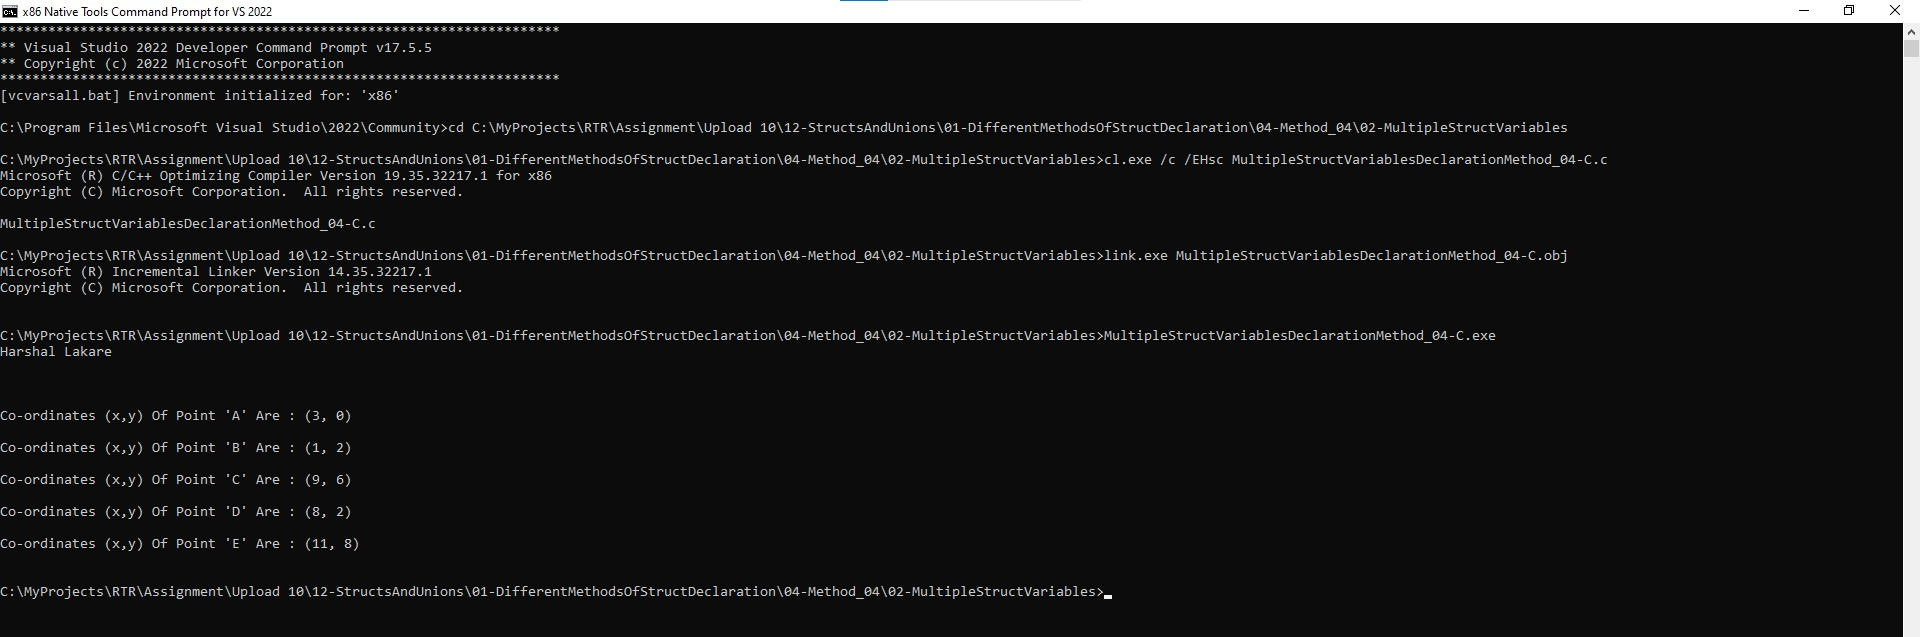
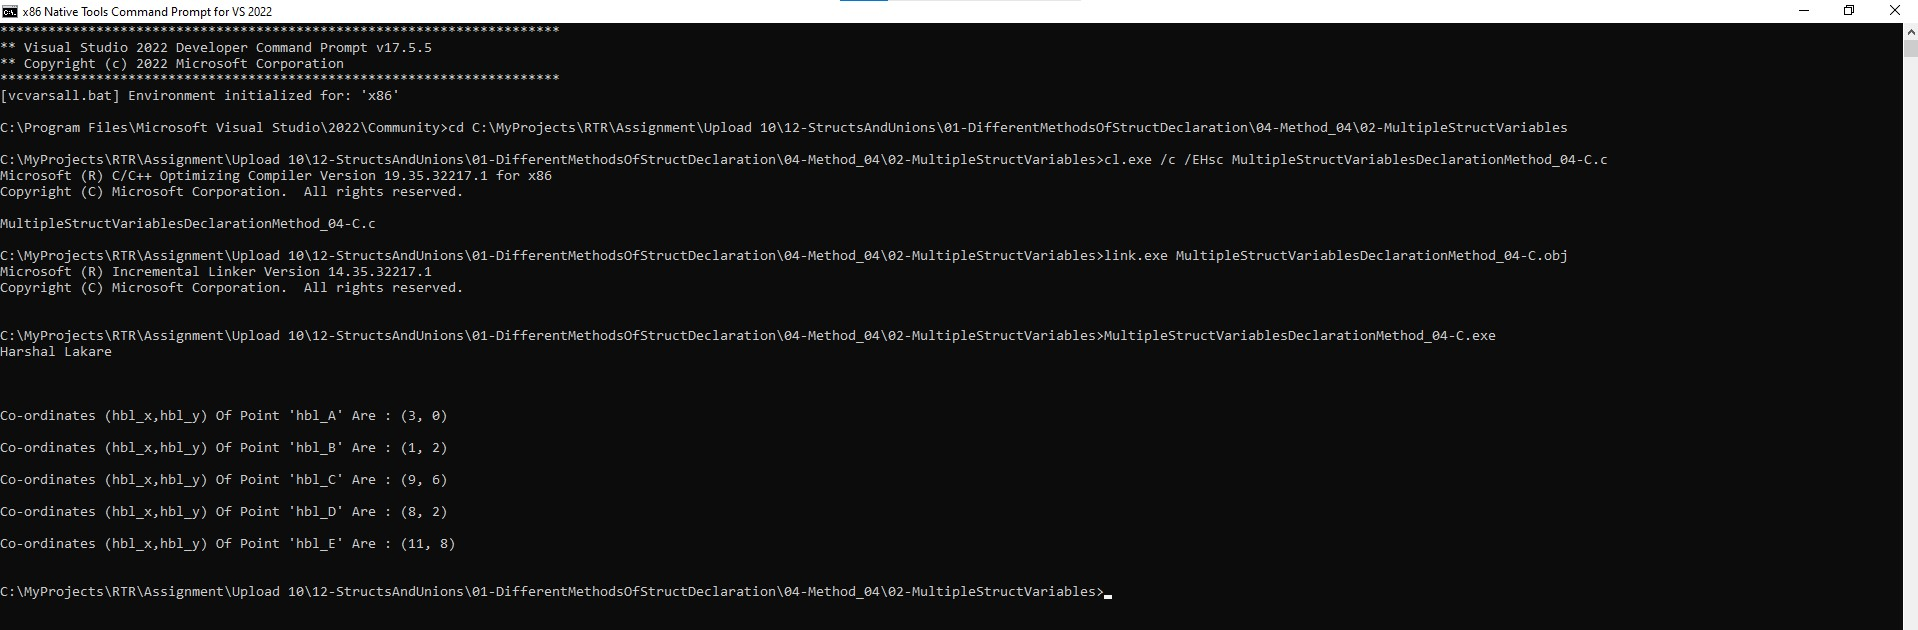
StructsAndUnions - MultipleStructVariables

diff --git a/Assignment/Upload 10/12-StructsAndUnions/01-DifferentMethodsOfStructDeclaration/04-Method_04/02-MultipleStructVariables/MultipleStructVariablesDeclarationMethod_04-C.c b/Assignment/Upload 10/12-StructsAndUnions/01-DifferentMethodsOfStructDeclaration/04-Method_04/02-MultipleStructVariables/MultipleStructVariablesDeclarationMethod_04-C.c
@@ -36,11 +36,11 @@ int main(void)
 	//Displaying Value of the Data Members of 'struct MyPoint' (all variables)
 	printf("Harshal Lakare\n\n");
 	printf("\n\n");
-	printf("Co-ordinates (x,y) Of Point 'A' Are : (%d, %d)\n\n", point_A.x, point_A.y);
-	printf("Co-ordinates (x,y) Of Point 'B' Are : (%d, %d)\n\n", point_B.x, point_B.y);
-	printf("Co-ordinates (x,y) Of Point 'C' Are : (%d, %d)\n\n", point_C.x, point_C.y);
-	printf("Co-ordinates (x,y) Of Point 'D' Are : (%d, %d)\n\n", point_D.x, point_D.y);
-	printf("Co-ordinates (x,y) Of Point 'E' Are : (%d, %d)\n\n", point_E.x, point_E.y);
+	printf("Co-ordinates (hbl_x,hbl_y) Of Point 'hbl_A' Are : (%d, %d)\n\n", point_A.x, point_A.y);
+	printf("Co-ordinates (hbl_x,hbl_y) Of Point 'hbl_B' Are : (%d, %d)\n\n", point_B.x, point_B.y);
+	printf("Co-ordinates (hbl_x,hbl_y) Of Point 'hbl_C' Are : (%d, %d)\n\n", point_C.x, point_C.y);
+	printf("Co-ordinates (hbl_x,hbl_y) Of Point 'hbl_D' Are : (%d, %d)\n\n", point_D.x, point_D.y);
+	printf("Co-ordinates (hbl_x,hbl_y) Of Point 'hbl_E' Are : (%d, %d)\n\n", point_E.x, point_E.y);
 
 	return(0);
 }
